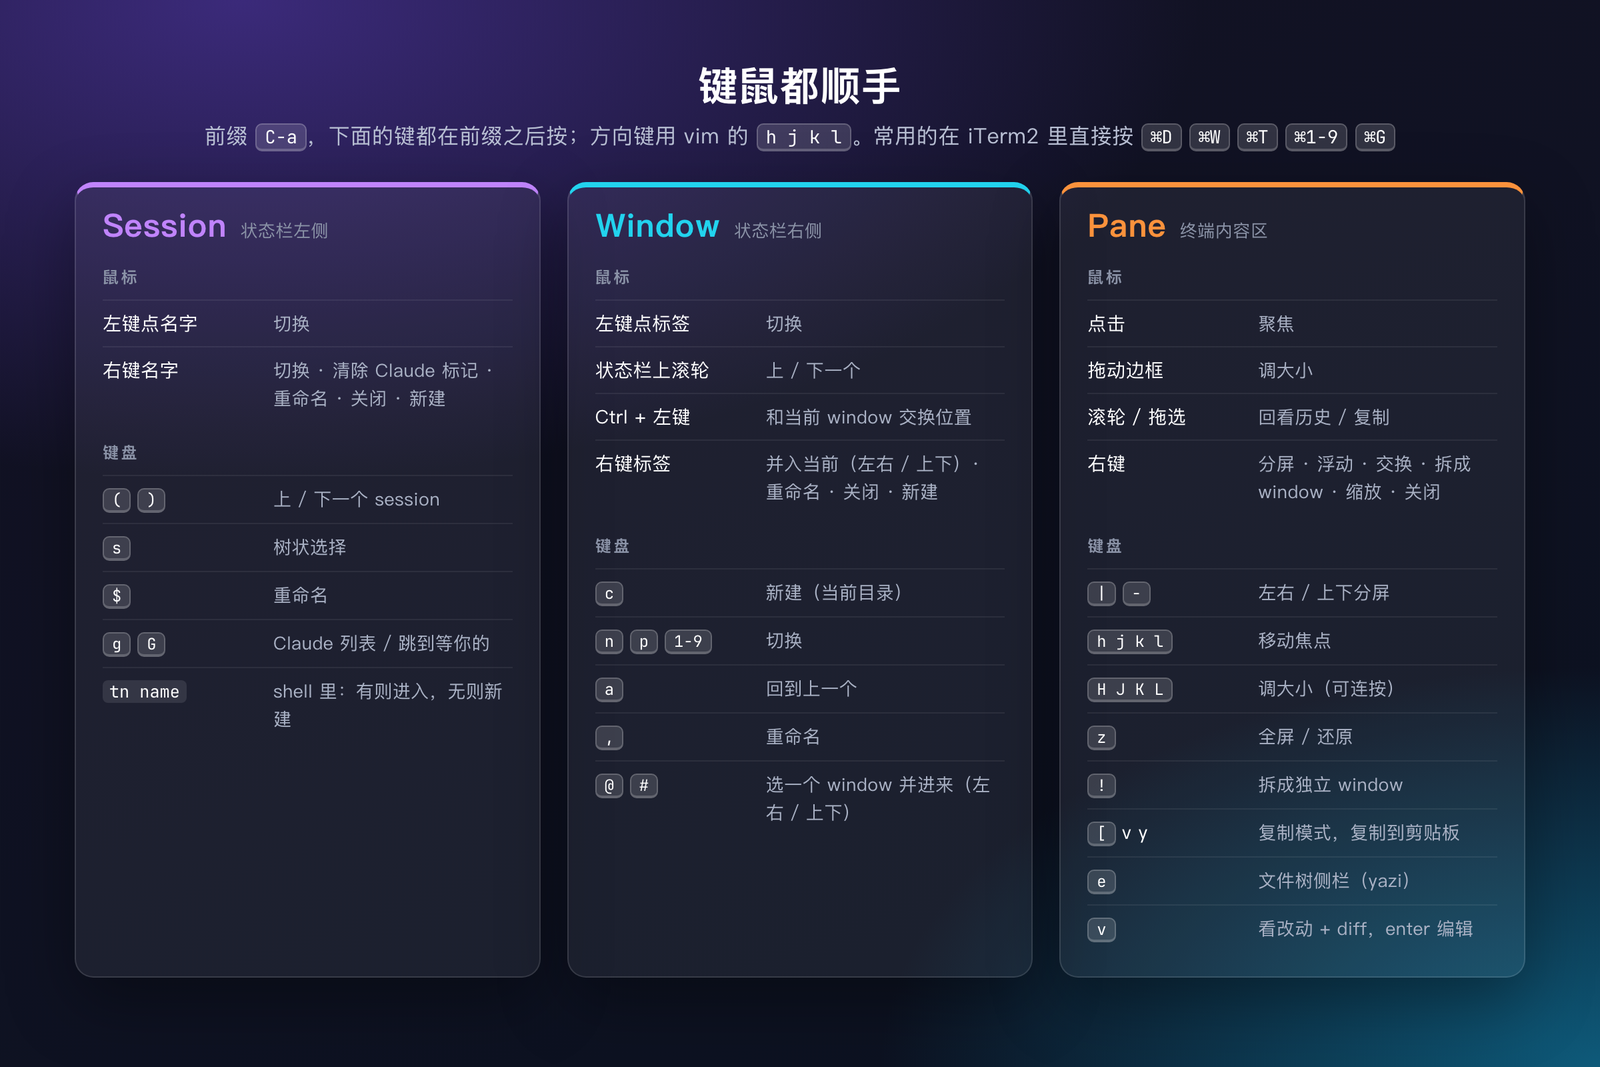
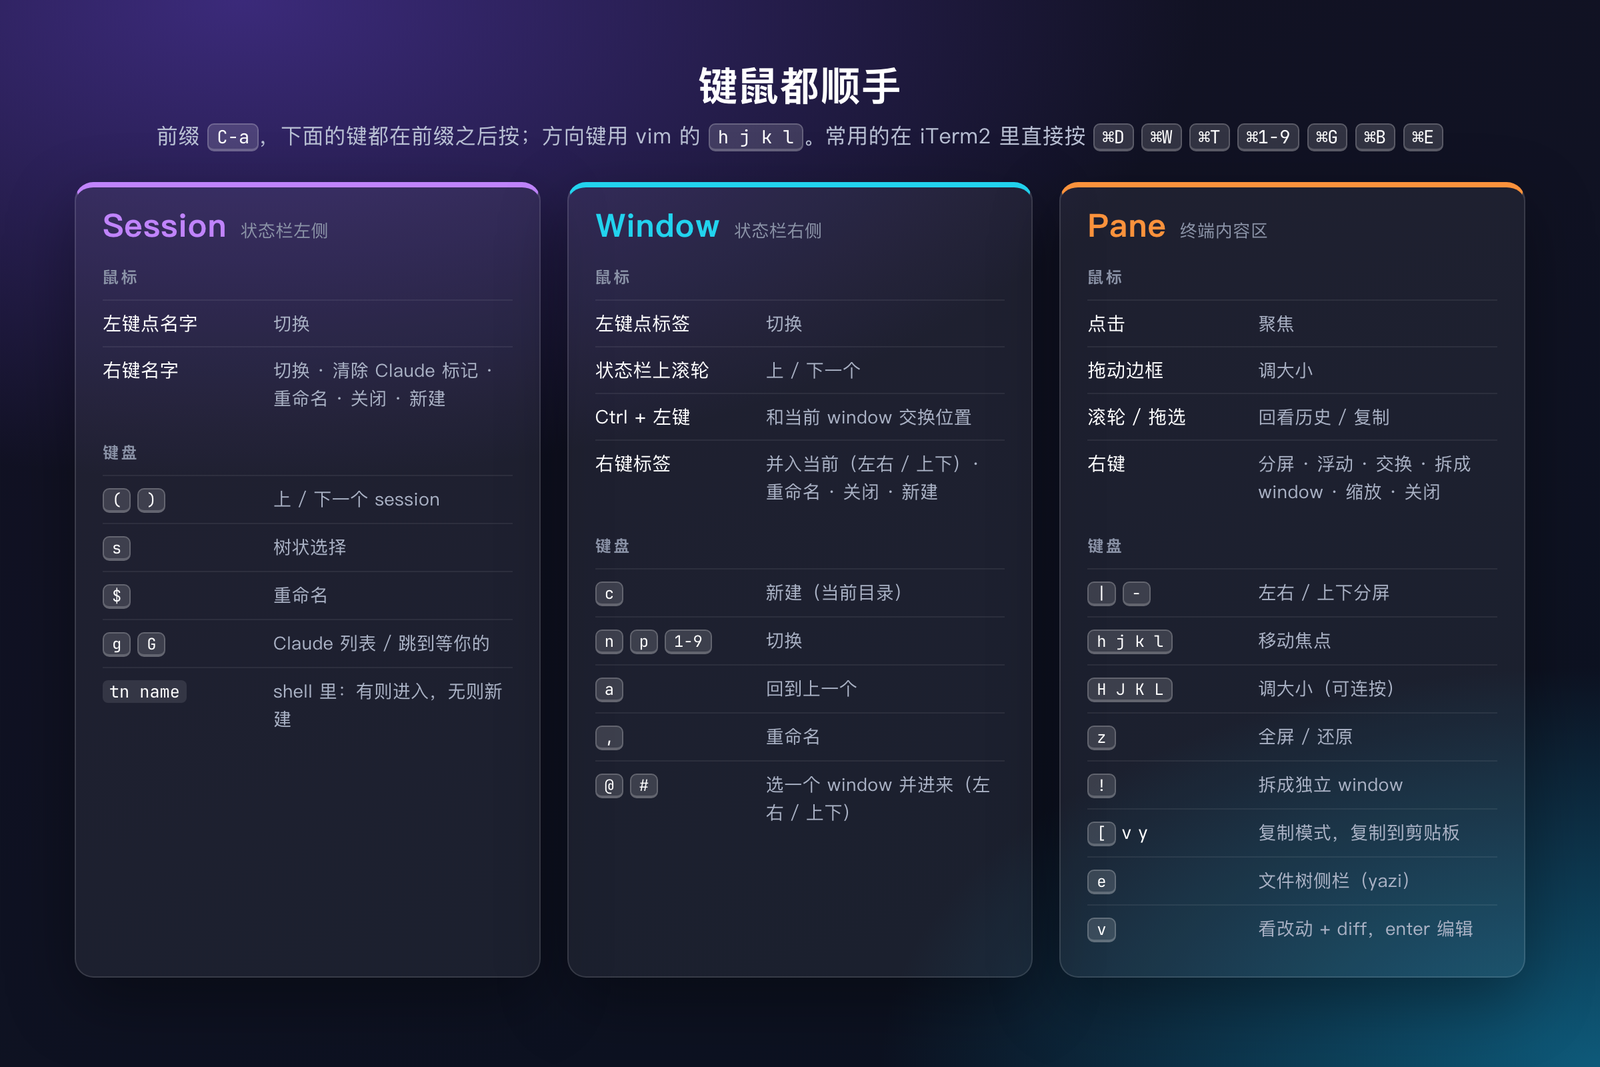
Cmd+B / Cmd+E / Cmd+U for file tree, changes and usage
Each sends C-a + e / v / u. Keys chosen after reading iTerm2's menu
shortcuts: Cmd+B and Cmd+U are free; Cmd+E (Use Selection for Find) is
overridden, like Cmd+G.

Changed region(s): [[0.0938, 0.0928, 0.7188, 0.1546], [0.875, 0.0928, 0.9062, 0.1546], [0.7812, 0.1237, 0.8438, 0.1546]]

diff --git a/docs/src/scene.html b/docs/src/scene.html
@@ -217,7 +217,7 @@ if(scene==='keys'){
   const col=(cls,title,sub,mouse,keys)=>`<div class="kc ${cls}"><div class="kh"><span class="kt">${title}</span><span class="ks">${sub}</span></div>
     <div class="kg">${T('鼠标','Mouse')}</div><ul>${mouse.join('')}</ul><div class="kg">${T('键盘','Keyboard')}</div><ul>${keys.join('')}</ul></div>`;
   html=`<div class="stage" style="width:1200px;height:800px">
-    <div class="head"><h1>${T('键鼠都顺手','Mouse and keyboard, both first-class')}</h1><p>${T('前缀 ','Prefix ')}${K('C-a')}${T('，下面的键都在前缀之后按；方向键用 vim 的 ',', all keys below come after it; vim-style ')}${K('h j k l')}${T('。常用的在 iTerm2 里直接按 ','. In iTerm2 the common ones are just ')}${K('⌘D')} ${K('⌘W')} ${K('⌘T')} ${K('⌘1-9')} ${K('⌘G')}</p></div>
+    <div class="head"><h1>${T('键鼠都顺手','Mouse and keyboard, both first-class')}</h1><p>${T('前缀 ','Prefix ')}${K('C-a')}${T('，下面的键都在前缀之后按；方向键用 vim 的 ',', all keys below come after it; vim-style ')}${K('h j k l')}${T('。常用的在 iTerm2 里直接按 ','. In iTerm2 the common ones are just ')}${K('⌘D')} ${K('⌘W')} ${K('⌘T')} ${K('⌘1-9')} ${K('⌘G')} ${K('⌘B')} ${K('⌘E')}</p></div>
     <div class="kcs">
     ${col('cs','Session',T('状态栏左侧','left of the status bar'),[
       li(T('左键点名字','Click a name'),T('切换','switch')),

diff --git a/SKILL.md b/SKILL.md
@@ -90,6 +90,8 @@ vim-plug 管理：vim-sensible、NERDTree、commentary、surround、repeat、fug
 - 状态栏 session 名右键：Switch To（非当前）、Clear Claude Mark（有 `@cc_s` 时）、Rename、Kill（当前 session 置灰）、New Session。session 和 window 标签右键都触发 `MouseDown3Status`，靠 `if -F "#{==:#{mouse_status_range},session}"` 分流；菜单项的条件写成 `##{?...}`，让 run-shell -C 只展开内层值、由 display-menu 判断显隐（否则展开成空串会被当成分隔线导致参数错位）。
 - 状态栏**左侧**列出所有 session（status-left），点击即切换（`range=session|…`），当前 session 绿底高亮；window 列表 `status-justify right` 靠右，紧挨日期时间（status-right）。
 
+**window 自动命名**（`automatic-rename-format`）：Claude Code 的进程名是版本号（如 `2.1.309`），所以按 `^[0-9]+.[0-9]+.[0-9]+$|^claude$` 识别它，取它写进 pane 标题的对话主题（去掉开头的 `✳`/转圈字符，截到 14 字）；标题还是默认的 `Claude Code` 时用目录名。空闲 shell 用目录名，其他程序用程序名。手动改过名（automatic-rename 关闭）的 window 不受影响。名字只在 pane 有新输出时刷新。正则里不能写 `{n}`，会和 tmux 格式的花括号冲突，用 `[.]` 重复代替。
+
 **其他**：状态栏在顶部、深灰底；`base-index 1`、`renumber-windows on`；`default-terminal tmux-256color` + RGB；`default-command "${SHELL}"`（非 login shell，避免 macOS `path_helper` 打乱 PATH）；history 50000；插件 tpm / tmux-sensible / tmux-resurrect / tmux-continuum（`@continuum-restore on`，开机自动恢复会话）；最后 `aggressive-resize off` 以兼容 iTerm2 `tmux -CC`。
 
 **Claude Code 状态提醒**：`~/.claude/hooks/tmux-cc.sh`（副本 `files/claude/tmux-cc.sh`；`install.sh claude` 部署：复制脚本并用 jq 幂等地挂到 `~/.claude/settings.json` 的 UserPromptSubmit / PreToolUse / PostToolUse / PermissionRequest / Notification / Stop / StopFailure / SessionEnd，与 iTerm2 的 cc-status 并列）。
@@ -112,7 +114,7 @@ vim-plug 管理：vim-sensible、NERDTree、commentary、surround、repeat、fug
   - 边距 左右 14 / 上下 8；无限回滚；开启 Mouse Reporting（tmux 鼠标需要）；Terminal Type `xterm-256color`。
 - 全局：主题 Minimal（`TabStyleWithAutomaticOption=5`）、单 tab 隐藏 tab bar、隐藏滚动条、允许剪贴板访问（OSC 52）、关闭按住弹重音。
 - 指针动作（plist `PointerActions`，均为 iTerm2 默认，未纳入脚本）：右键=上下文菜单、中键=粘贴、三指左右切 tab、上下切窗口。
-- Cmd 免前缀：Moshi Dark profile 的 `Keyboard Map`（Action 11 = Send Hex Code，发 `0x01` + tmux 键；键名格式 `0x字符-0x修饰键`，Cmd=0x100000、Shift=0x20000、Option=0x80000，方向键另加 NumPad 0x200000）：⌘D/⌘⇧D 分屏、⌘W 关 pane、⌘T 新 window、⌘1-9、⌘⌥方向键切 pane、⌘⇧Enter 放大、⌘G/⌘⇧G Claude 列表/跳转。Dynamic Profile 改了会自动重载，不用重启 iTerm2。
+- Cmd 免前缀：Moshi Dark profile 的 `Keyboard Map`（Action 11 = Send Hex Code，发 `0x01` + tmux 键；键名格式 `0x字符-0x修饰键`，Cmd=0x100000、Shift=0x20000、Option=0x80000，方向键另加 NumPad 0x200000）：⌘D/⌘⇧D 分屏、⌘W 关 pane、⌘T 新 window、⌘1-9、⌘⌥方向键切 pane、⌘⇧Enter 放大、⌘G/⌘⇧G Claude 列表/跳转、⌘B 文件树（prefix e）、⌘E 看改动（prefix v）、⌘U 额度用量（prefix u）。选键前用 System Events 读过 iTerm2 菜单快捷键：⌘B、⌘U 空闲；⌘E（用选中文本查找）、⌘G（查找下一个）被覆盖；⌘⇧V 是粘贴选中内容，不碰。Dynamic Profile 改了会自动重载，不用重启 iTerm2。
 - `prefix x`（⌘W）：前台是 zsh/bash/sh/fish 直接 kill-pane，否则 `confirm-before -c x` 再按 x 确认；用 shell 白名单而不是程序名，因为 Claude Code 的进程名是版本号。
 - tmux -CC：tmux window 以 tab 打开、不自动隐藏 client session、不用专用 profile、不同步剪贴板、不暂停警告、不用 iTerm 状态栏。
 

diff --git a/README.md b/README.md
@@ -44,8 +44,11 @@ Prefix is `C-a`. Movement uses vim's `h j k l`. Splits open in the current direc
 | `Cmd+Option+←↓↑→` | move between panes | `C-a h/j/k/l` |
 | `Cmd+Shift+Enter` | zoom / unzoom pane | `C-a z` |
 | `Cmd+G` / `Cmd+Shift+G` | Claude list / jump to the one waiting longest | `C-a g` / `C-a G` |
+| `Cmd+B` | file tree sidebar (like the VS Code sidebar) | `C-a e` |
+| `Cmd+E` | changed files + diff | `C-a v` |
+| `Cmd+U` | limits and daily usage | `C-a u` |
 
-Less frequent actions keep the prefix. `Cmd+G` replaces iTerm2's "Find Next"; search with tmux copy mode instead.
+Less frequent actions keep the prefix. `Cmd+G` and `Cmd+E` replace iTerm2's "Find Next" and "Use Selection for Find"; search with tmux copy mode instead.
 
 ### Panes ⇄ windows
 

diff --git a/README.zh-CN.md b/README.zh-CN.md
@@ -44,8 +44,11 @@
 | `Cmd+Option+←↓↑→` | 切换 pane | `C-a h/j/k/l` |
 | `Cmd+Shift+Enter` | 放大 / 还原 pane | `C-a z` |
 | `Cmd+G` / `Cmd+Shift+G` | Claude 列表 / 跳到最早等你的 | `C-a g` / `C-a G` |
+| `Cmd+B` | 文件树侧栏（同 VS Code 开关侧栏） | `C-a e` |
+| `Cmd+E` | 看改动 + diff | `C-a v` |
+| `Cmd+U` | 额度和每日用量 | `C-a u` |
 
-低频操作继续用前缀。`Cmd+G` 占用了 iTerm2 的“查找下一个”，搜索改用 tmux 的复制模式。
+低频操作继续用前缀。`Cmd+G`、`Cmd+E` 占用了 iTerm2 的“查找下一个”和“用选中文本查找”，搜索改用 tmux 的复制模式。
 
 ### pane ⇄ window 互转
 
